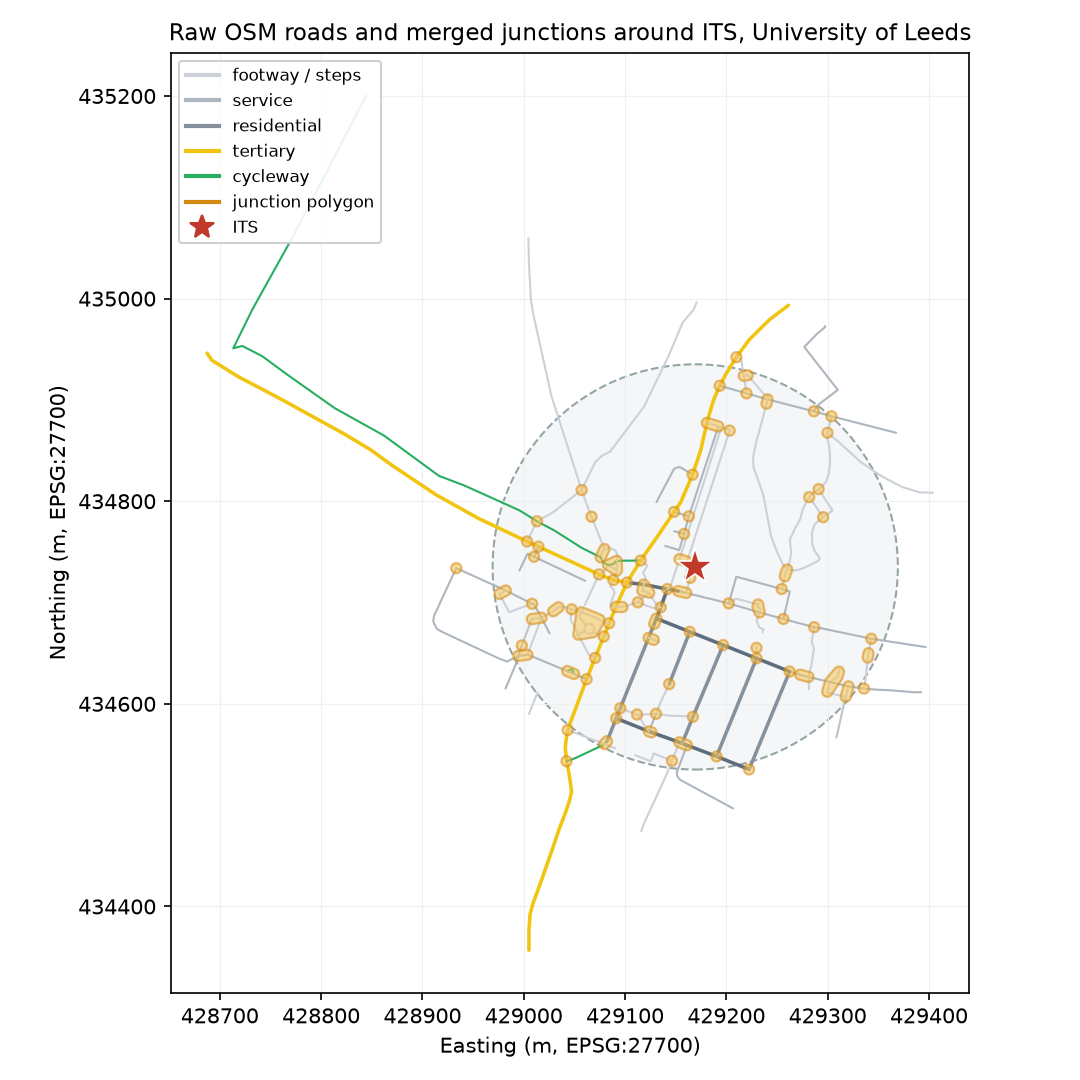
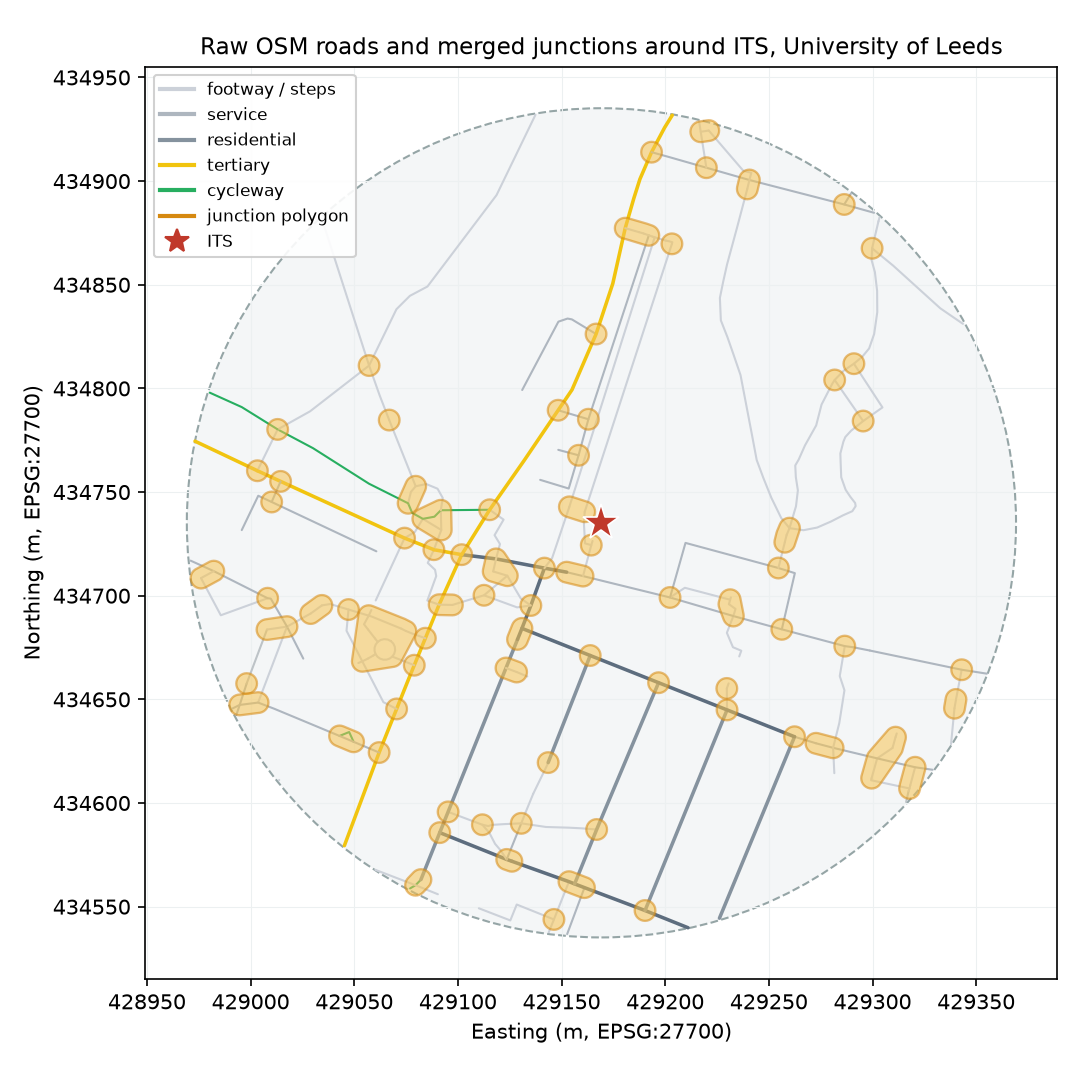
docs: clip ITS case-study roads to the 200 m boundary

diff --git a/examples/its_leeds.py b/examples/its_leeds.py
@@ -1,8 +1,8 @@
 """Reproducible case study: raw OSM roads and merged junctions around ITS, Leeds.
 
 Builds a 200 m buffer around the Institute for Transport Studies, downloads
-OpenStreetMap roads with QuackOSM, merges them into junction polygons with the
-`junctions` DuckDB extension, and renders a figure.
+OpenStreetMap roads with QuackOSM, clips them to the buffer, merges them into
+junction polygons with the `junctions` DuckDB extension, and renders a figure.
 
 Dependencies:
     duckdb (>= 1.5.3), quackosm, shapely, matplotlib
@@ -51,9 +51,9 @@ HIGHWAY_COLORS = {
 DEFAULT_COLOR = "#bdc3c7"
 
 
-def build_buffer(con: duckdb.DuckDBPyConnection) -> BaseGeometry:
-    """Return a 200 m circle around ITS as a WGS84 polygon."""
-    wkt = con.execute(
+def build_buffer(con: duckdb.DuckDBPyConnection) -> str:
+    """Return a 200 m circle around ITS as a WGS84 polygon WKT string."""
+    return con.execute(
         """
         SELECT ST_AsText(ST_Transform(
             ST_Buffer(
@@ -65,10 +65,9 @@ def build_buffer(con: duckdb.DuckDBPyConnection) -> BaseGeometry:
         """,
         [ITS_LON, ITS_LAT],
     ).fetchone()[0]
-    return shapely.wkt.loads(wkt)
 
 
-def extract_osm(con: duckdb.DuckDBPyConnection, buffer: BaseGeometry) -> Path:
+def extract_osm(buffer: BaseGeometry) -> Path:
     """Download highway features in the buffer with QuackOSM and return the DB path."""
     if OSM_DB.exists():
         OSM_DB.unlink()
@@ -84,17 +83,33 @@ def extract_osm(con: duckdb.DuckDBPyConnection, buffer: BaseGeometry) -> Path:
     )
 
 
-def render(con: duckdb.DuckDBPyConnection) -> None:
+def clip_roads(con: duckdb.DuckDBPyConnection, buffer_wkt: str) -> None:
+    """Clip QuackOSM ways to the buffer, dumping multi-parts into linestrings."""
     con.execute(f"ATTACH '{OSM_DB}' AS osm (READ_ONLY)")
+    con.execute("CREATE TEMP TABLE study_buffer AS SELECT ST_GeomFromText(?) AS geom", [buffer_wkt])
+    con.execute(
+        """
+        CREATE TEMP TABLE roads_clipped AS
+        SELECT
+            q.feature_id,
+            q.tags,
+            d.geom AS geometry
+        FROM osm.quackosm q, study_buffer b, UNNEST(ST_Dump(ST_Intersection(q.geometry, b.geom))) AS u(d)
+        WHERE starts_with(q.feature_id, 'way/')
+          AND q.tags['highway'] IS NOT NULL
+          AND ST_GeometryType(q.geometry) = 'LINESTRING'
+          AND ST_Intersects(q.geometry, b.geom)
+          AND ST_GeometryType(d.geom) = 'LINESTRING'
+        """
+    )
 
+
+def render(con: duckdb.DuckDBPyConnection) -> None:
     roads = con.execute(
         """
         SELECT tags['highway'] AS highway,
                ST_AsText(ST_Transform(geometry, 'EPSG:4326', 'EPSG:27700', always_xy := true)) AS wkt
-        FROM osm.quackosm
-        WHERE starts_with(feature_id, 'way/')
-          AND tags['highway'] IS NOT NULL
-          AND ST_GeometryType(geometry) = 'LINESTRING'
+        FROM roads_clipped
         """
     ).fetchall()
     roads = [(h, shapely.wkt.loads(w)) for h, w in roads]
@@ -102,7 +117,7 @@ def render(con: duckdb.DuckDBPyConnection) -> None:
     junctions = con.execute(
         """
         SELECT ST_AsText(ST_Transform(geom, 'EPSG:4326', 'EPSG:27700', always_xy := true)) AS wkt
-        FROM junctions_from_osm('osm.quackosm', output_crs := 'EPSG:4326')
+        FROM junctions_from_osm('roads_clipped', output_crs := 'EPSG:4326')
         """
     ).fetchall()
     junctions = [shapely.wkt.loads(w) for w, in junctions]
@@ -164,8 +179,9 @@ def main() -> None:
     con.execute("INSTALL spatial; LOAD spatial")
     con.execute(f"LOAD '{EXTENSION}'")
 
-    buffer = build_buffer(con)
-    extract_osm(con, buffer)
+    buffer_wkt = build_buffer(con)
+    extract_osm(shapely.wkt.loads(buffer_wkt))
+    clip_roads(con, buffer_wkt)
     render(con)
     con.close()
 

diff --git a/README.md b/README.md
@@ -115,8 +115,9 @@ FROM junctions_from_osm(
 
 1. builds a 200 m circle around the Institute for Transport Studies (53.8081° N, 1.5585° W) with DuckDB Spatial;
 2. downloads OpenStreetMap roads inside it from a Geofabrik West Yorkshire extract with QuackOSM;
-3. merges them into junction polygons with `junctions_from_osm` (the centroid is in the UK, so `analysis_crs` resolves to EPSG:27700 automatically); and
-4. renders raw roads and merged junctions to `docs/figures/its-leeds-junctions.png`.
+3. clips the roads to the circle with `ST_Intersection` so no way extends past the boundary;
+4. merges the clipped roads into junction polygons with `junctions_from_osm` (the centroid is in the UK, so `analysis_crs` resolves to EPSG:27700 automatically); and
+5. renders raw roads and merged junctions to `docs/figures/its-leeds-junctions.png`.
 
 ![Raw OSM roads and merged junctions around ITS, University of Leeds](docs/figures/its-leeds-junctions.png)
 
@@ -125,7 +126,7 @@ make release
 python examples/its_leeds.py
 ```
 
-The script needs `duckdb`, `quackosm`, `shapely`, and `matplotlib`. The extension load is the only junctions-specific step; everything else is standard QuackOSM and DuckDB Spatial:
+The script needs `duckdb`, `quackosm`, `shapely`, and `matplotlib`. The extension load and the clip are the only junctions-specific steps; everything else is standard QuackOSM and DuckDB Spatial:
 
 ```python
 import quackosm as qosm
@@ -146,9 +147,22 @@ qosm.convert_pbf_to_duckdb(
     geometry_filter=buffer_wgs84,  # the 200 m circle
 )
 
+# QuackOSM returns whole ways that intersect the circle, so clip them to it
 con.execute("ATTACH 'its_osm.duckdb' AS osm (READ_ONLY)")
+con.execute(
+    """
+    CREATE TABLE roads_clipped AS
+    SELECT q.feature_id, q.tags, d.geom AS geometry
+    FROM osm.quackosm q, study_buffer b,
+         UNNEST(ST_Dump(ST_Intersection(q.geometry, b.geom))) AS u(d)
+    WHERE starts_with(q.feature_id, 'way/')
+      AND q.tags['highway'] IS NOT NULL
+      AND ST_GeometryType(d.geom) = 'LINESTRING'
+    """
+)
+
 junctions = con.execute(
-    "SELECT * FROM junctions_from_osm('osm.quackosm')"
+    "SELECT * FROM junctions_from_osm('roads_clipped')"
 ).fetchall()
 ```
 
